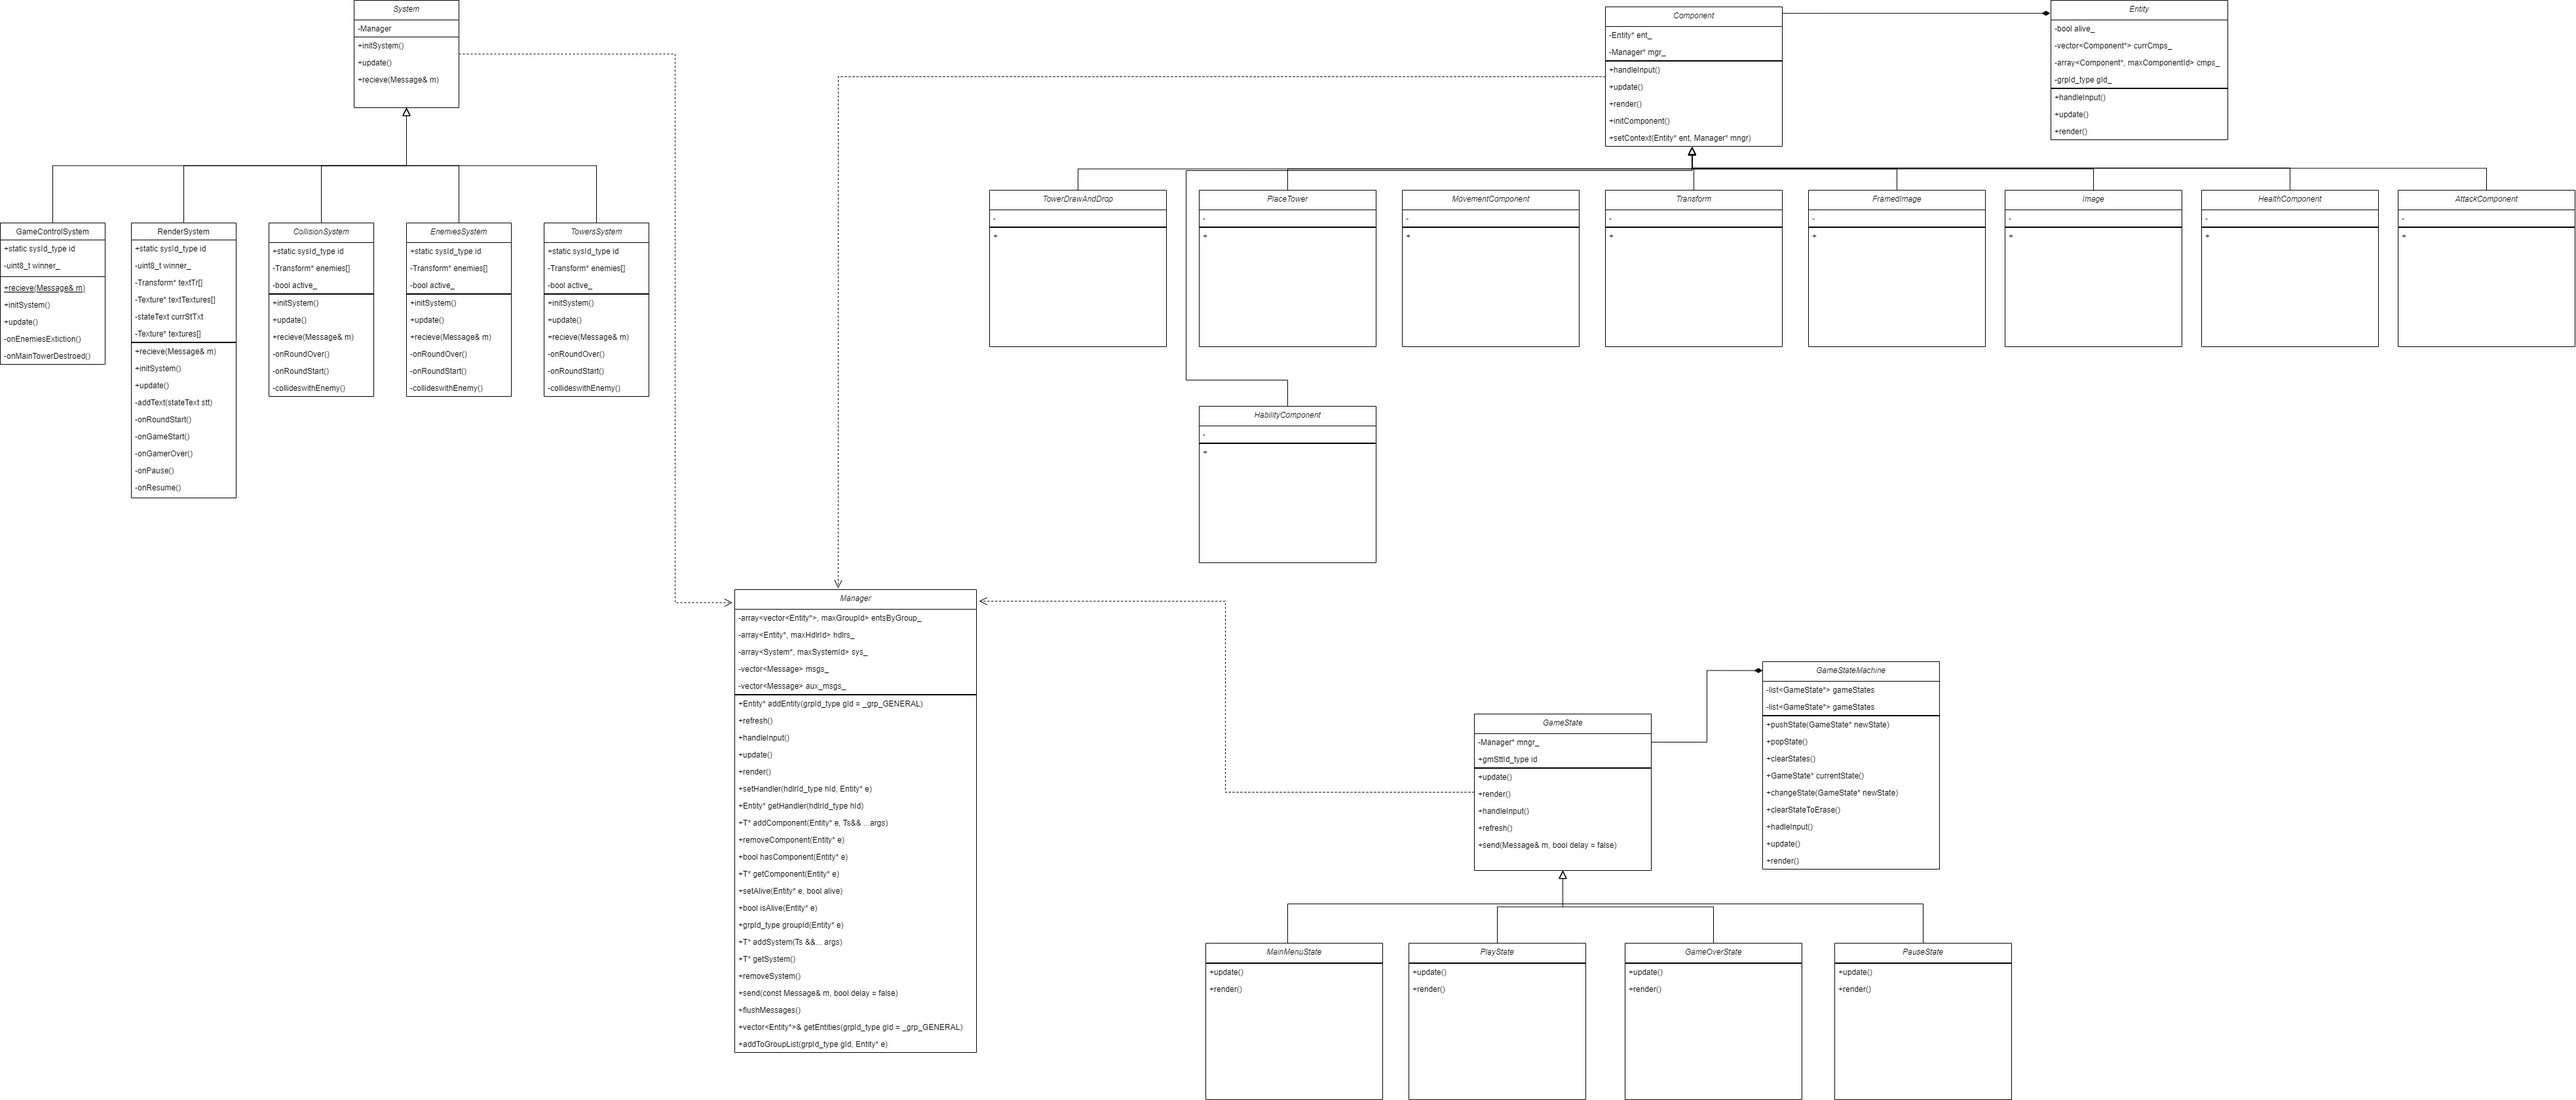
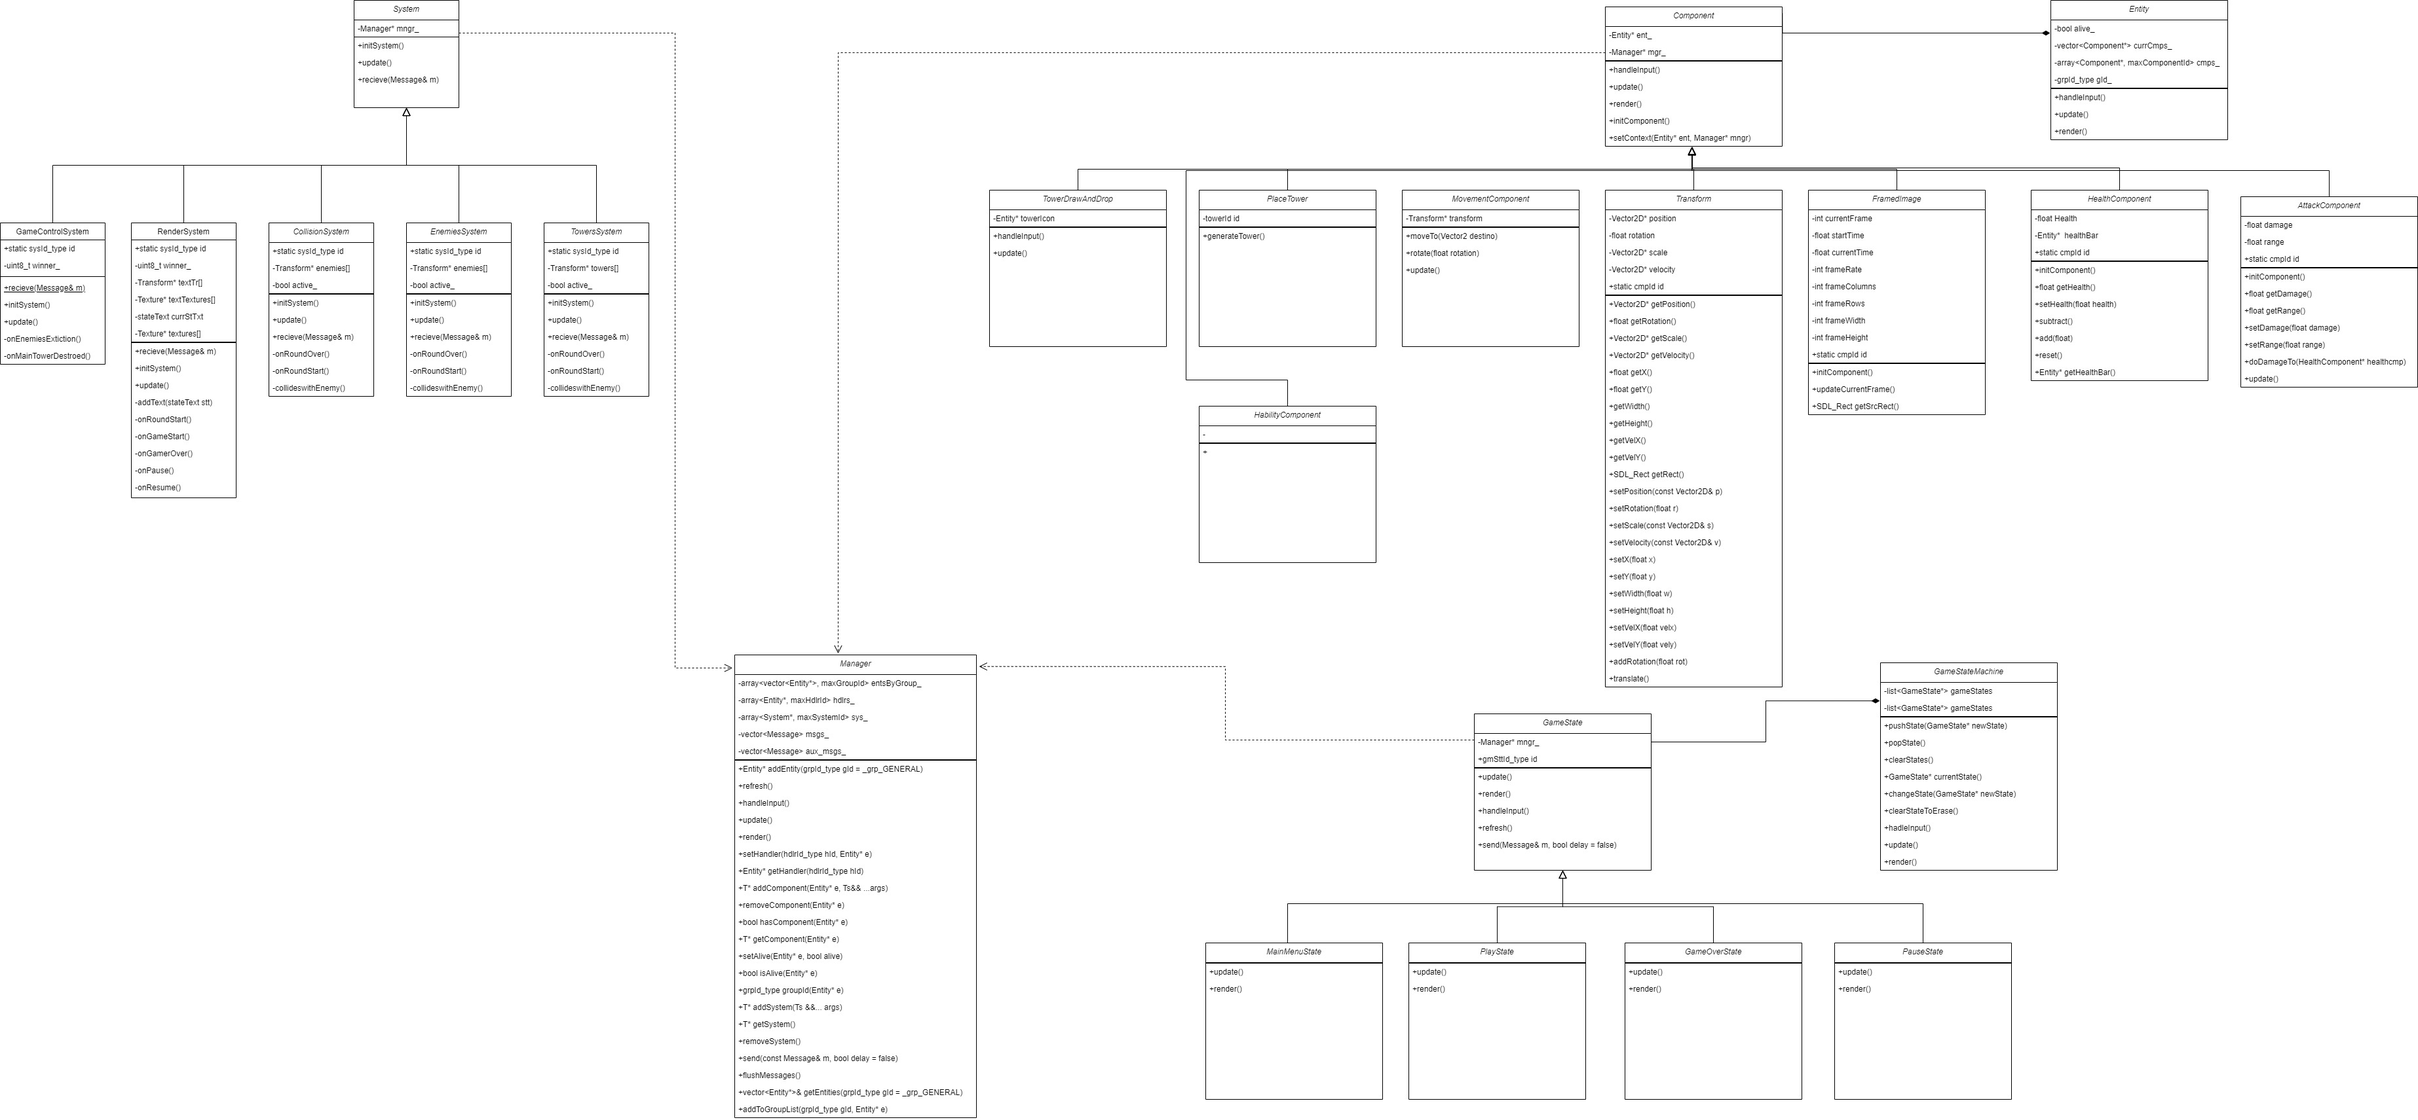
uml v3

diff --git a/ProyectoH/src/components/Transform.h b/ProyectoH/src/components/Transform.h
@@ -1,0 +1,79 @@
+#pragma once
+#ifndef TRANSFORM_H_
+#define TRANSFORM_H_
+
+#include "../ecs/Component.h"
+#include "../utils/Vector2D.h"
+#include "../ecs/Entity.h"
+#include <SDL.h>
+
+struct Transform : public Component
+{
+private:
+	Vector2D* position;
+	float rotation;
+	Vector2D* scale;
+	Vector2D* velocity;
+
+public:
+	static const cmpId id = cmpId::_TRANSFORM;
+
+	// Constructor
+	Transform() : Component(), position(new Vector2D(0, 0)), rotation(0), scale(new Vector2D(100, 100)), velocity(new Vector2D(0, 0)) {};
+	// Destructor
+	virtual ~Transform() { delete position; delete scale; rotation = 0; delete velocity; };
+
+	// Returns position
+	inline Vector2D* getPosition() { return position; };
+	// Returns rotation
+	inline float getRotation() { return rotation; };
+	// Returns scale
+	inline Vector2D* getScale() { return scale; };
+	// Returns velocity
+	inline Vector2D* getVelocity() { return velocity; };
+
+	// Returns position X
+	float getX();
+	// Returns position Y
+	float getY();
+	// Returns width
+	float getWidth();
+	// Returns height
+	float getHeight();
+	// Returns velocity X
+	float getVelX();
+	// Returns velocity Y
+	float getVelY();
+	// Returns a SDL_Rect with Transform properties
+	SDL_Rect getRect();
+
+	// Sets position
+	inline void setPosition(const Vector2D& p) { *position = p; };
+	// Sets rotation
+	inline void setRotation(float r) { rotation = r; };
+	// Sets scale
+	inline void setScale(const Vector2D& s) { *scale = s; };
+	// Sets velocity
+	inline void setVelocity(const Vector2D& v) { *velocity = v; };
+
+	// Sets position X
+	void setX(float x);
+	// Sets position Y
+	void setY(float y);
+	// Sets width
+	void setWidth(float w);
+	// Sets height
+	void setHeight(float h);
+	// Sets velocity X
+	void setVelX(float velx);
+	// Sets velocity Y
+	void setVelY(float vely);
+
+	// Adds inserted value to rotation
+	void addRotation(float rot);
+
+	// Updates position based on velocity and deltaTime
+	void translate();
+};
+
+#endif

diff --git a/ProyectoH/src/components/Transform.cpp b/ProyectoH/src/components/Transform.cpp
@@ -1,0 +1,52 @@
+#include "Transform.h"
+#include "../game/Game.h"
+
+// Individual members of Vector2D Getters and Setters 
+
+// Returns position X
+float Transform::getX() { return position->getX(); }
+
+// Returns position Y
+float Transform::getY() { return position->getY(); }
+
+// Returns width
+float Transform::getWidth() { return scale->getX(); }
+
+// Returns height
+float Transform::getHeight() { return scale->getY(); }
+
+// Returns velocity X
+float Transform::getVelX() { return velocity->getX(); }
+
+// Returns velocity Y
+float Transform::getVelY() { return velocity->getY(); }
+
+// Returns a SDL_Rect with Transform properties
+SDL_Rect Transform::getRect() { return build_sdlrect(position->getX(), position->getY(), scale->getX(), scale->getY()); };
+
+// Sets position X
+void Transform::setX(float x) {position->setX(x); };
+
+// Sets position Y
+void Transform::setY(float y) { position->setY(y); };
+
+// Sets width
+void Transform::setWidth(float w) { scale->setX(w); };
+
+// Sets height
+void Transform::setHeight(float h) { scale->setY(h); };
+
+// Sets velocity X
+void Transform::setVelX(float velx) { velocity->setX(velx); };
+
+// Sets velocity Y
+void Transform::setVelY(float vely) { velocity->setY(vely); };
+
+// Adds inserted value to rotation
+void Transform::addRotation(float rot) { rotation += rot; };
+
+// Updates position based on velocity and deltaTime
+void Transform::translate() {
+	velocity->rotate(rotation).normalize();
+	*position = *position + *velocity * game().getDeltaTime();
+};

diff --git a/ProyectoH/src/components/FramedImage.h b/ProyectoH/src/components/FramedImage.h
@@ -1,0 +1,32 @@
+#pragma once
+#ifndef FRAMEDIMAGE_H_
+#define FRAMEDIMAGE_H_
+
+#include "../sdlutils/SDLUtils.h"
+#include "Image.h"
+
+struct FramedImage : public Component {
+private:
+	int currentFrame;
+	float startTime, currentTime;
+	const int frameRate;
+	const int frameColumns, frameRows;
+	const int frameWidth, frameHeight;
+public:
+	// Constructor
+	//IMPORTANTE: cambiar los strings de referencia al json
+	FramedImage() :
+		currentFrame(0), startTime(SDL_GetTicks() / 1000.0), currentTime(startTime),
+		frameRate(sdlutils().intConst().at("asteroidAnimFrameRate")),
+		frameColumns(sdlutils().intConst().at("asteroidFrameColumns")),
+		frameRows(sdlutils().intConst().at("asteroidFrameRows")),
+		frameWidth(sdlutils().intConst().at("asteroidFrameWidth")),
+		frameHeight(sdlutils().intConst().at("asteroidFrameHeight"))
+	{}
+	// Changes the current frame
+	void updateCurrentFrame();
+	// Returns texture Source Rect
+	SDL_Rect getSrcRect();
+};
+
+#endif

diff --git a/ProyectoH/src/components/FramedImage.cpp b/ProyectoH/src/components/FramedImage.cpp
@@ -1,0 +1,36 @@
+#include "FramedImage.h"
+#include "../game/Game.h"
+
+#ifdef Version_1_0
+// Changes the current frame
+void FramedImage::update() {
+	updateCurrentFrame();
+}
+
+// Renders the current frame
+void FramedImage::render() {
+	SDL_Rect dest = build_sdlrect(*(tr_->getPosition()),
+		tr_->getWidth(),
+		tr_->getHeight());
+
+	
+
+	tex_->render(getSrcRect(), dest);
+}
+#endif
+
+void FramedImage::updateCurrentFrame() {
+	if (currentTime - startTime >= (1.0 / frameRate)) {
+		++currentFrame;
+		startTime = currentTime;
+	}
+	currentTime += game().getDeltaTime();
+}
+
+SDL_Rect FramedImage::getSrcRect() {
+	return build_sdlrect(
+		(currentFrame % frameColumns) * frameWidth,
+		((currentFrame / frameColumns) % frameRows) * frameHeight,
+		frameWidth,
+		frameHeight);
+}

diff --git a/ProyectoH/src/components/Image.h b/ProyectoH/src/components/Image.h
@@ -1,0 +1,34 @@
+#pragma once
+
+#ifndef IMAGE_H_
+#define IMAGE_H_
+
+#include "../ecs/Component.h"
+#include "../sdlutils/Texture.h"
+#include "Transform.h"
+#include "../ecs/Entity.h"
+
+#ifdef Version_1_0
+
+class Image : public Component {
+public:
+	static const cmpId id = cmpId::_IMAGE;
+	// Constructor
+	Image(Texture* tex) : //
+		tr_(nullptr), //
+		tex_(tex) {
+	}
+	// Destructor
+	virtual ~Image() { tex_ = nullptr; tr_ = nullptr; }
+	// Gets a pointer to the Transform
+	void initComponent() override;
+	// Draws the Texture on screen
+	virtual void render() override;
+
+protected:
+	Transform* tr_;
+	Texture* tex_;
+};
+
+#endif
+#endif

diff --git a/ProyectoH/src/components/Image.cpp b/ProyectoH/src/components/Image.cpp
@@ -1,0 +1,19 @@
+#include "Image.h"
+
+#ifdef Version_1_0
+
+// Gets a pointer to the Transform
+void Image::initComponent() {
+	tr_ = ent_->getComponent<Transform>();
+	assert(tr_ != nullptr);
+}
+
+// Draws the Texture on screen
+void Image::render() {
+	SDL_Rect dest = build_sdlrect(*(tr_->getPosition()),
+		tr_->getWidth(),
+		tr_->getHeight());
+	tex_->render(dest, tr_->getRotation());
+}
+
+#endif
